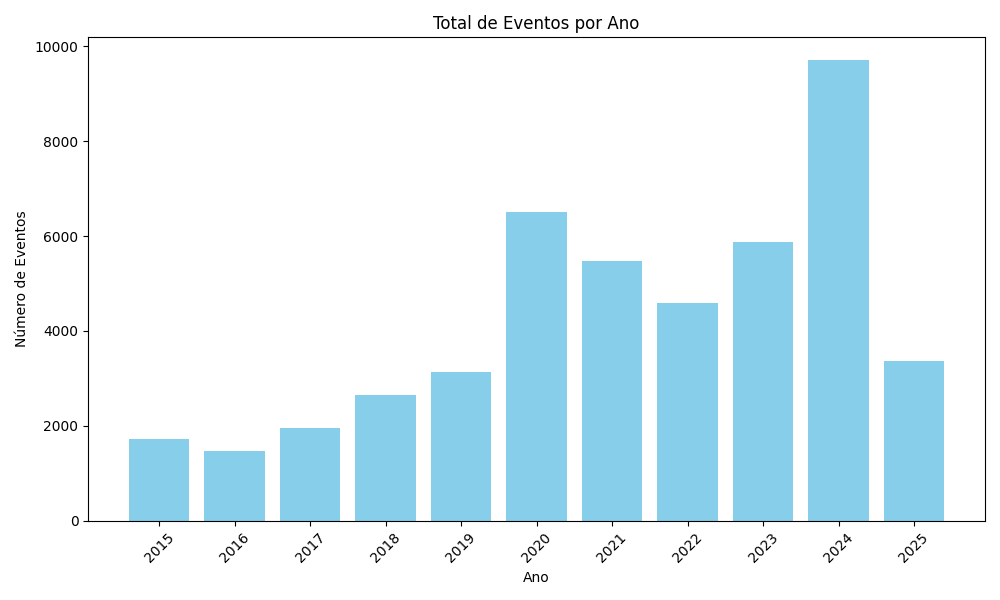
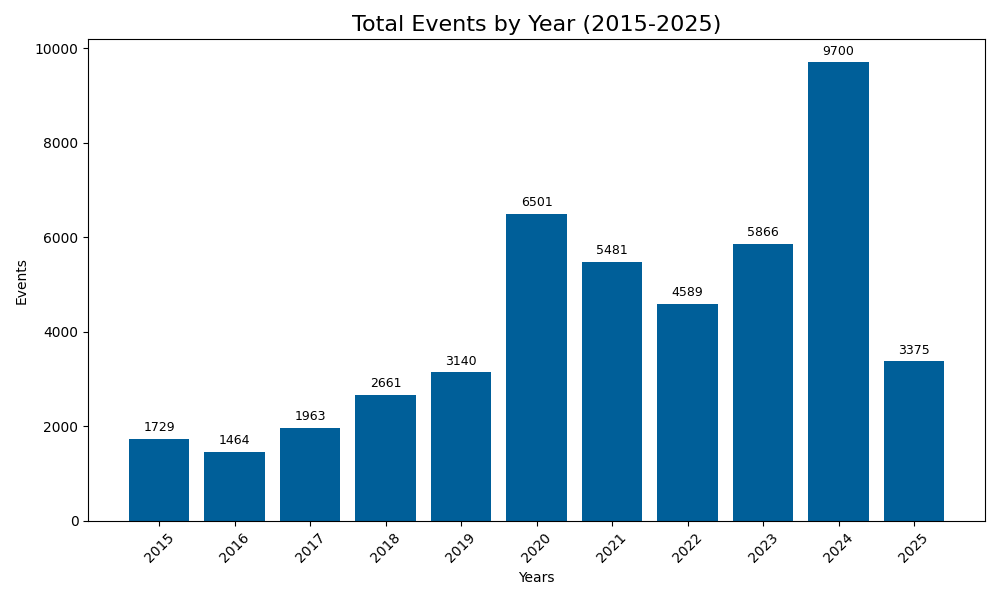
a

diff --git a/worldstats/graphbar.py b/worldstats/graphbar.py
@@ -26,10 +26,17 @@ print(df.to_string(index=False))
 
 # Criar gráfico de barras
 plt.figure(figsize=(10, 6))
-plt.bar(df["Ano"], df["Eventos"], color='blue')
-plt.title("Total de Eventos por Ano")
-plt.xlabel("Ano")
-plt.ylabel("Número de Eventos")
+bars = plt.bar(df["Ano"], df["Eventos"], color="#005f99")
+
+# Adicionar rótulos nas barras
+for bar in bars:
+    yval = bar.get_height()
+    plt.text(bar.get_x() + bar.get_width()/2, yval + 100, f'{yval}', ha='center', va='bottom', fontsize=9)
+
+# Configurações do gráfico
+plt.title("Total Events by Year (2015-2025)", fontsize=16)
+plt.xlabel("Years")
+plt.ylabel("Events")
 plt.xticks(df["Ano"], rotation=45)
 plt.tight_layout()
 
